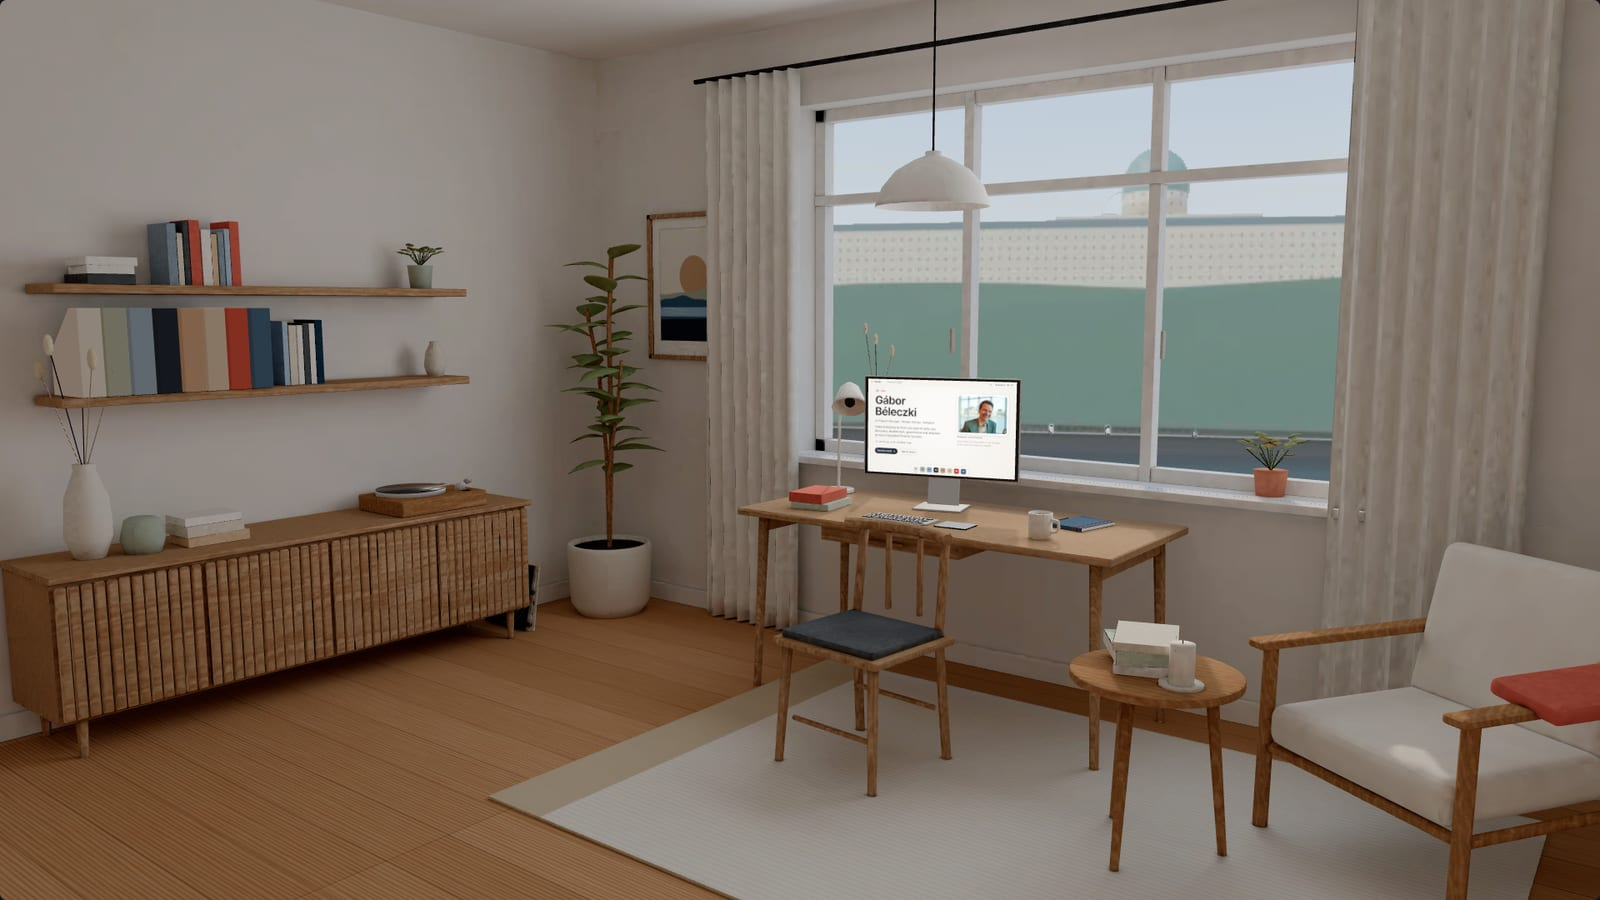
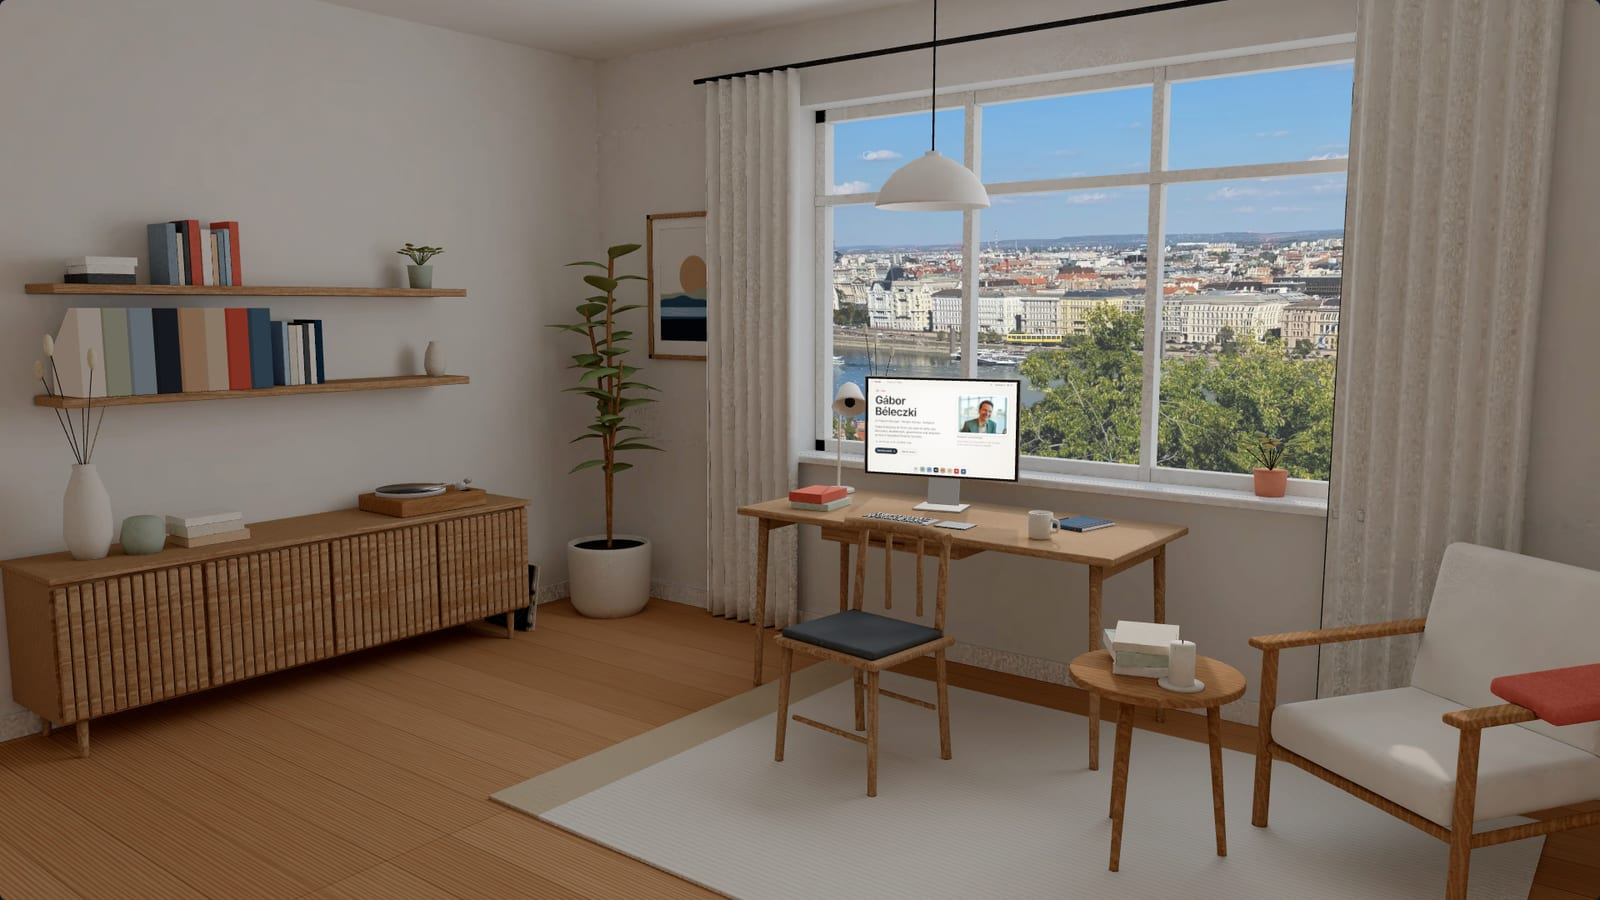
Texture tiers, cache-safe asset URLs, new posters, more QA
- A 2K texture set for tablets and low-memory devices (the 4K bake needs
  ~400 MB of video memory); desktops still get the full set
- Every 3D asset URL carries a build-derived version, so a returning visitor
  never pairs a cached old texture with the new model
- Posters and social card recaptured with the photo window
- QA: the role game (keys, pause on leaving the desk), the soundtrack (offline
  render, no clipping) and the page's animated figures; pendant no longer gets
  a push on the first physics step

Claude-Session: https://claude.ai/code/session_01Uvi1JFjGjidcaNThuio9s6

Changed region(s): [[0.5, 0.0622, 0.8438, 0.56], [0.5, 0.4667, 0.5625, 0.4978]]

diff --git a/src/studio/studio.ts b/src/studio/studio.ts
@@ -37,6 +37,9 @@ type Focus = 'home' | 'desk' | 'shelf' | 'window' | 'record';
 
 const v3 = (a: number[]) => new THREE.Vector3(a[0], a[1], a[2]);
 
+/** Asset URL with the build's asset version (cache busting across deploys). */
+const asset = (path: string) => `${path}?v=${import.meta.env.VITE_ASSET_V ?? '0'}`;
+
 const HINTS: Record<Focus, string> = {
   home: 'Pick a folio on the shelf · click the display, the window or a lamp',
   desk: 'Use the dock on the display · <kbd>←</kbd> <kbd>→</kbd> to browse · <kbd>Esc</kbd> to step back',
@@ -67,7 +70,7 @@ export class Studio {
   private sharpening?: Promise<boolean>;
   private folios?: Folios;
   private turntable?: Turntable;
-  private readonly ambient = new Lounge();
+  private readonly music = new Lounge();
   private envs: { evening?: THREE.Texture; day?: THREE.Texture } = {};
   private flame?: THREE.Sprite;
   private warmLight = new THREE.PointLight('#ffb36b', 0, 6, 1.6);
@@ -142,18 +145,18 @@ export class Studio {
   async load(): Promise<void> {
     const manager = new THREE.LoadingManager();
     manager.onProgress = (_url, loaded, total) => this.hud.progress(loaded / Math.max(total, 1));
-    const meta: StudioMeta = await fetch('/models/studio.json').then((r) => {
+    const meta: StudioMeta = await fetch(asset('/models/studio.json')).then((r) => {
       if (!r.ok) throw new Error('studio.json');
       return r.json();
     });
-    const view: WindowMeta = await fetch('/models/window.json').then((r) => r.json());
+    const view: WindowMeta = await fetch(asset('/models/window.json')).then((r) => r.json());
     this.meta = meta;
     this.windowMeta = view;
     for (const [k, p] of Object.entries(meta.poses)) this.poses[k] = { pos: v3(p.pos), target: v3(p.target), fit: p.fit };
 
     const tl = new THREE.TextureLoader(manager);
     const tex = (url: string, srgb: boolean, flipY: boolean) =>
-      new Promise<THREE.Texture>((res, rej) => tl.load(url, (t) => res(configureTexture(t, { srgb, flipY, aniso: this.renderer.capabilities.getMaxAnisotropy() >= 8 ? 8 : 4 })), undefined, rej));
+      new Promise<THREE.Texture>((res, rej) => tl.load(asset(url), (t) => res(configureTexture(t, { srgb, flipY, aniso: this.renderer.capabilities.getMaxAnisotropy() >= 8 ? 8 : 4 })), undefined, rej));
     const gltfLoader = new GLTFLoader(manager);
     gltfLoader.setMeshoptDecoder(MeshoptDecoder);
     const hdr = new HDRLoader(manager);
@@ -181,12 +184,12 @@ export class Studio {
       return { plate, data, fill };
     };
     const [gltf, atlases, winE, winD, envE, envD] = await Promise.all([
-      gltfLoader.loadAsync('/models/studio.glb'),
+      gltfLoader.loadAsync(asset('/models/studio.glb')),
       Promise.all(atlasJobs),
       windowSet('evening'),
       windowSet('day'),
-      loadHdr('/textures/room_evening.hdr').catch(() => null),
-      loadHdr('/textures/room_day.hdr').catch(() => null),
+      loadHdr(asset('/textures/room_evening.hdr')).catch(() => null),
+      loadHdr(asset('/textures/room_day.hdr')).catch(() => null),
     ]);
 
     const pmrem = new THREE.PMREMGenerator(this.renderer);
@@ -318,6 +321,7 @@ export class Studio {
 
     this.rig = new CameraRig(this.poses.home);
     this.rig.calm = this.reduceMotion || this.capture;
+    this.lastEye.copy(this.rig.camera.position);
     const start = this.poses.home;
     // arrive with a short dolly
     const from: Pose = { pos: start.pos.clone().add(new THREE.Vector3(0.5, 0.18, 0.9)), target: start.target.clone(), fit: start.fit };
@@ -354,19 +358,26 @@ export class Studio {
   private async sharpen(): Promise<boolean> {
     const loader = new THREE.TextureLoader();
     const aniso = Math.min(16, this.renderer.capabilities.getMaxAnisotropy());
-    const load = async (url: string, flipY: boolean) => configureTexture(await loader.loadAsync(url), { srgb: true, flipY, aniso });
+    const load = async (url: string, flipY: boolean) => configureTexture(await loader.loadAsync(asset(url)), { srgb: true, flipY, aniso });
+    // the full 4K bake needs ~400 MB of video memory: desktops get it, tablets and
+    // low-memory devices get the 2K set
+    const mem = (navigator as Navigator & { deviceMemory?: number }).deviceMemory ?? 8;
+    const coarse = matchMedia('(pointer: coarse)').matches;
+    const full = mem >= 8 && !coarse && this.renderer.capabilities.maxTextureSize >= 4096;
+    // (the walls' albedo is 2K already, so it has no smaller sibling)
+    const sharp = (g: string, kind: string) => (full || (g === 'walls' && kind === 'albedo') ? `/textures/${g}_${kind}.webp` : `/textures/${g}_${kind}_md.webp`);
     const states: ('evening' | 'day')[] = this.night ? ['evening', 'day'] : ['day', 'evening'];
     try {
       for (const m of this.baked) {
         const g = m.userData.atlas as string;
-        const [albedo, light] = await Promise.all([load(`/textures/${g}_albedo.webp`, false), load(`/textures/${g}_light_${states[0]}.webp`, false)]);
+        const [albedo, light] = await Promise.all([load(sharp(g, 'albedo'), false), load(sharp(g, `light_${states[0]}`), false)]);
         this.swapTexture(m, 'albedoMap', albedo);
         this.swapTexture(m, states[0] === 'evening' ? 'lightA' : 'lightB', light);
       }
       for (const state of states) this.windowView?.setTextures(state, { plate: await load(`/textures/window_${state}.webp`, true) });
       for (const m of this.baked) {
         const g = m.userData.atlas as string;
-        this.swapTexture(m, states[1] === 'evening' ? 'lightA' : 'lightB', await load(`/textures/${g}_light_${states[1]}.webp`, false));
+        this.swapTexture(m, states[1] === 'evening' ? 'lightA' : 'lightB', await load(sharp(g, `light_${states[1]}`), false));
       }
       return true;
     } catch {
@@ -440,14 +451,43 @@ export class Studio {
         for (let i = 0; i < n; i++) this.frame(dt, i === n - 1);
       },
       screenPng: () => this.screen.canvas.toDataURL('image/png'),
+      game: () => this.screen.debug(),
       screenMaterial: () => {
         const m = this.screenMesh?.material as THREE.MeshBasicMaterial | undefined;
         const uv = this.screenMesh?.geometry.getAttribute('uv');
         return { has: !!this.screenMesh, type: m?.type, map: !!m?.map, uvCount: uv?.count ?? 0, uv0: uv ? [uv.getX(0), uv.getY(0), uv.getX(2), uv.getY(2)] : null, normalized: (uv as THREE.BufferAttribute | undefined)?.normalized };
       },
       // QA: render the soundtrack's opening offline and report its levels per second
-      music: async (seconds = 40) => {
+      music: async (seconds = 40, wav = false) => {
         const buf = await Lounge.render(seconds);
+        if (wav) {
+          // 16-bit stereo WAV, base64, for a listenable preview
+          const n = buf.length;
+          const data = new DataView(new ArrayBuffer(44 + n * 4));
+          const str = (o: number, t: string) => [...t].forEach((c, i) => data.setUint8(o + i, c.charCodeAt(0)));
+          str(0, 'RIFF');
+          data.setUint32(4, 36 + n * 4, true);
+          str(8, 'WAVEfmt ');
+          data.setUint32(16, 16, true);
+          data.setUint16(20, 1, true);
+          data.setUint16(22, 2, true);
+          data.setUint32(24, buf.sampleRate, true);
+          data.setUint32(28, buf.sampleRate * 4, true);
+          data.setUint16(32, 4, true);
+          data.setUint16(34, 16, true);
+          str(36, 'data');
+          data.setUint32(40, n * 4, true);
+          const L = buf.getChannelData(0);
+          const R = buf.getChannelData(1);
+          for (let i = 0; i < n; i++) {
+            data.setInt16(44 + i * 4, Math.max(-1, Math.min(1, L[i])) * 32767, true);
+            data.setInt16(46 + i * 4, Math.max(-1, Math.min(1, R[i])) * 32767, true);
+          }
+          let bin = '';
+          const bytes = new Uint8Array(data.buffer);
+          for (let i = 0; i < bytes.length; i += 0x8000) bin += String.fromCharCode(...bytes.subarray(i, i + 0x8000));
+          return btoa(bin);
+        }
         const per: { peak: number; rms: number }[] = [];
         const sr = buf.sampleRate;
         for (let s = 0; s < Math.floor(buf.duration); s++) {
@@ -492,7 +532,7 @@ export class Studio {
     this.pause();
     window.clearTimeout(this.contextLostTimer);
     this.cleanups.forEach((f) => f());
-    this.ambient.dispose();
+    this.music.dispose();
     this.screen?.dispose();
     this.scene.traverse((o) => {
       const m = o as THREE.Mesh;
@@ -552,7 +592,7 @@ export class Studio {
     const eye = this.rig.camera.position;
     const lamp = this.lampPositions[0];
     if (lamp) {
-      this.air.subVectors(eye, this.lastEye).divideScalar(h);
+      this.air.subVectors(eye, this.lastEye).divideScalar(h).clampLength(0, 3);
       const near = Math.max(0, 1 - eye.distanceTo(lamp) / 1.6);
       this.air.multiplyScalar(near * near * 0.6);
       this.air.y = 0;
@@ -608,9 +648,9 @@ export class Studio {
   }
 
   private async toggleMusic(force?: boolean): Promise<void> {
-    const on = force ?? !this.ambient.playing;
-    if (on) await this.ambient.start();
-    else this.ambient.stop();
+    const on = force ?? !this.music.playing;
+    if (on) await this.music.start();
+    else this.music.stop();
     this.turntable?.setPlaying(on);
     this.hud.setSound(on);
   }
@@ -683,7 +723,7 @@ export class Studio {
       const f = folios.find((x) => x.id === folioId)!;
       label = `Folio ${f.n} · ${f.title}`;
     } else if (hitId === 'lights') label = this.night ? `${label} · switch to day` : `${label} · switch to evening`;
-    else if (hitId === 'record') label = this.ambient.playing ? 'Stop the record' : 'Play a record';
+    else if (hitId === 'record') label = this.music.playing ? 'Stop the record' : 'Play a record';
     else if (hitId === 'screen') label = 'Sit at the desk';
     this.renderer.domElement.style.cursor = target ? 'pointer' : 'default';
     this.hud.showTip(target && e.pointerType === 'mouse' ? label : null, e.clientX, e.clientY);
@@ -720,7 +760,7 @@ export class Studio {
     if (id === 'window') return this.setFocus(this.focus === 'window' ? 'home' : 'window');
     if (id === 'lights') return this.setNight(!this.night);
     if (id === 'record') {
-      if (this.focus !== 'record' && !this.ambient.playing) this.setFocus('record');
+      if (this.focus !== 'record' && !this.music.playing) this.setFocus('record');
       void this.toggleMusic();
       return;
     }

diff --git a/vite.config.ts b/vite.config.ts
@@ -1,3 +1,5 @@
+import { createHash } from 'node:crypto';
+import fs from 'node:fs';
 import { defineConfig, type Plugin } from 'vite';
 import { header, footer, sections } from './src/site/render.ts';
 import { loadNotes } from './src/site/notes.ts';
@@ -58,6 +60,21 @@ function sitePages(): Plugin {
     },
   };
 }
+
+// One version for the 3D assets (model, metadata, textures): it changes whenever any of them
+// does, and goes on every asset URL, so a returning visitor never mixes an old texture with a
+// new model from the cache.
+function assetVersion(): string {
+  const h = createHash('sha1');
+  for (const f of ['public/models/studio.glb', 'public/models/studio.json', 'public/models/window.json']) {
+    if (fs.existsSync(f)) h.update(fs.readFileSync(f));
+  }
+  if (fs.existsSync('public/textures')) {
+    for (const f of fs.readdirSync('public/textures').sort()) h.update(`${f}:${fs.statSync(`public/textures/${f}`).size}`);
+  }
+  return h.digest('hex').slice(0, 10);
+}
+process.env.VITE_ASSET_V = assetVersion();
 
 export default defineConfig({
   plugins: [sitePages()],

diff --git a/src/studio/screen/modules/role.ts b/src/studio/screen/modules/role.ts
@@ -78,6 +78,11 @@ export class Role extends BaseModule {
     } else this.game?.pause();
   }
 
+  /** QA hook: the game's phase and the player's position. */
+  debug(): { phase: string; x: number } | null {
+    return this.game ? { phase: this.game.phase, x: this.game.player().x } : null;
+  }
+
   keyUp(e: KeyboardEvent): boolean {
     if (this.view !== 'play' || !this.game) return false;
     return this.game.key(e, false);

diff --git a/src/studio/screen/game/roleGame.js b/src/studio/screen/game/roleGame.js
@@ -501,6 +501,7 @@ export function mount(host, opts) {
       onUp(e); return !!KEYS[e.code];
     },
     get phase() { return phase; },
+    player() { return { x: player.x, y: player.y, lvl: player.lvl }; },
     stats() { return stats(); },
     destroy() {
       cancelAnimationFrame(raf); if (io) io.disconnect(); if (ro) ro.disconnect();

diff --git a/src/studio/screen/screen.ts b/src/studio/screen/screen.ts
@@ -171,6 +171,11 @@ export class Screen {
     return false;
   }
 
+  /** QA: whatever the current chapter wants to report (the game's state). */
+  debug(): unknown {
+    return (this.module as unknown as { debug?: () => unknown })?.debug?.() ?? null;
+  }
+
   keyUp(e: KeyboardEvent): boolean {
     return !!this.module?.keyUp?.(e);
   }

diff --git a/index.html b/index.html
@@ -85,7 +85,7 @@
           var l = document.createElement('link');
           l.rel = 'preload';
           l.as = 'fetch';
-          l.href = '/models/studio.glb';
+          l.href = '/models/studio.glb?v=%VITE_ASSET_V%';
           l.crossOrigin = 'anonymous';
           document.head.appendChild(l);
         }

diff --git a/src/studio/screen/game/roleGame.d.ts b/src/studio/screen/game/roleGame.d.ts
@@ -26,6 +26,7 @@ export interface GameApi {
   tick(dt: number): void;
   key(e: { code: string; preventDefault(): void }, down: boolean): boolean;
   readonly phase: GamePhase;
+  player(): { x: number; y: number; lvl: number };
   stats(): GameStats;
   destroy(): void;
 }

diff --git a/src/vite-env.d.ts b/src/vite-env.d.ts
@@ -1,0 +1,10 @@
+/// <reference types="vite/client" />
+
+interface ImportMetaEnv {
+  /** Version of the 3D assets, appended to their URLs (see vite.config.ts). */
+  readonly VITE_ASSET_V: string;
+}
+
+interface ImportMeta {
+  readonly env: ImportMetaEnv;
+}

diff --git a/README.md b/README.md
@@ -2,7 +2,7 @@
 
 A personal site in two layers:
 
-- **The studio** — a calm Nordic room in Budapest, modeled in Blender with Python, lit and baked with Cycles, and rendered live in the browser with Three.js. Folios on the shelf open chapters on the desk display; the window looks across the Danube to the castle; lamps switch between day and evening; a record player plays generated ambient music.
+- **The studio** — a calm Nordic room in Budapest, modeled in Blender with Python, lit and baked with Cycles, and rendered live in the browser with Three.js. Folios on the shelf open chapters on the desk display; the window looks out on real photographs of Budapest — the Chain Bridge at night, the Parliament by day — rebuilt in depth, with traffic, tram 2, boats and wind; lamps switch between day and evening; a record player plays generated lounge deep house.
 - **The page** — a minimal single-column portfolio with the same content (Nordic palette, Apple-style type and controls). It is what crawlers, phones, reduced-motion users and browsers without WebGL 2 get, and it is always one click away.
 
 ```
@@ -44,7 +44,7 @@ BLENDER_PY=/path/to/venv/bin/python npm run blender
 | --- | --- | --- |
 | Window | `blender/fetch_photos.py` + `blender/window_photos.py` | two Budapest photos (evening, day) → colour plates, a depth/river/lights/foreground data map, a fill for what the trees hide, and paths for traffic, tram 2, boats, a plane and birds (`public/models/window.json`) |
 | Scene | `blender/build_scene.py` | the room from primitives + procedural materials, merged into four bake groups with packed UV atlases; camera poses and click targets in `public/models/studio.json` |
-| Bake | `blender/bake.py` | per group: albedo (up to 4096²) and light (2048², evening + day, denoised with OpenImageDenoise); small `_lo` previews load first |
+| Bake | `blender/bake.py` | per group: albedo (up to 4096²) and light (2048², evening + day, denoised with OpenImageDenoise); `_lo` previews load first, then the full set on desktops or the 2K `_md` set on tablets and low-memory devices |
 | Env maps | `blender/envmap.py` | small HDR panoramas that light the moving objects |
 | Stills | `blender/render_stills.py` | Cycles references of the main view (pixel diff, build notes) |
 | Export | `blender/export.py` + `scripts/optimize-assets.mjs` | glTF → meshopt-compressed `public/models/studio.glb`, WebP textures |
